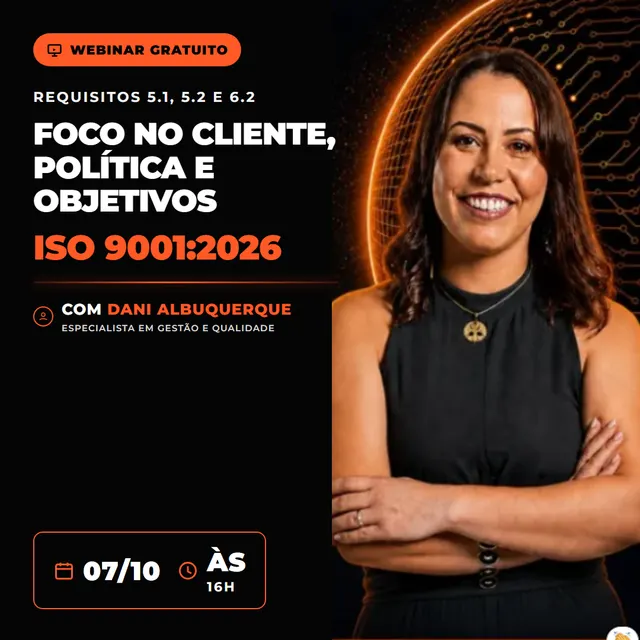
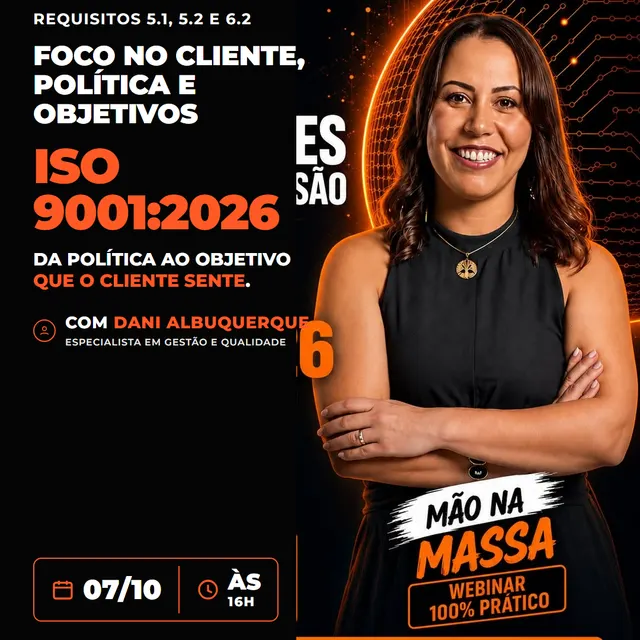
Alinha criativos de webinar ao master oficial 1080x1350.
Extrai CTA e painel direito do JFIF de referencia; regera webp do card.

diff --git a/scripts/criativos-webinars/README.md b/scripts/criativos-webinars/README.md
@@ -1,19 +1,19 @@
-# Criativos feed (1080×1080) — webinars ISO 9001:2026
+# Criativos feed — webinars ISO 9001:2026
 
-Layout alinhado ao criativo de setembro/2026 (badge laranja, tipografia Montserrat, Dani + globo).
+Padrão oficial **1080×1350** (master em `masters/feed-referencia-completa.jpg`, export do arquivo de set/2026).
+
+Camadas fixas extraídas do master: Dani + globo + “Mão na massa” (`assets/layer-right.jpg`) e faixa **INSCREVA-SE E PARTICIPE** (`assets/layer-cta.jpg`). Texto da esquerda é gerado no HTML.
 
 ## Gerar outubro/2026
+
+Coloque o JFIF oficial em `masters/feed-referencia-completa.jpg` (se ainda não estiver).
 
 ```bash
 node scripts/criativos-webinars/render-feed-1080.mjs
 node scripts/webinars-webp.mjs scripts/criativos-webinars/out-2026-10
 ```
 
-PNG ficam em `out-2026-10/` (não versionar PNGs pesados se preferir; manter webp em `public/assets/webinars/`).
-
-Foto da palestrante: `assets/dani.jpg` (cópia de `site-templum/site/public/assets/img/socios/dani.jpg`).
-
-Referência visual: `referencia-set-2026.png`.
+PNG em `out-2026-10/`; webp do card do blog em `public/assets/webinars/`.
 
 ## Nomenclatura (designer / script webp)
 
